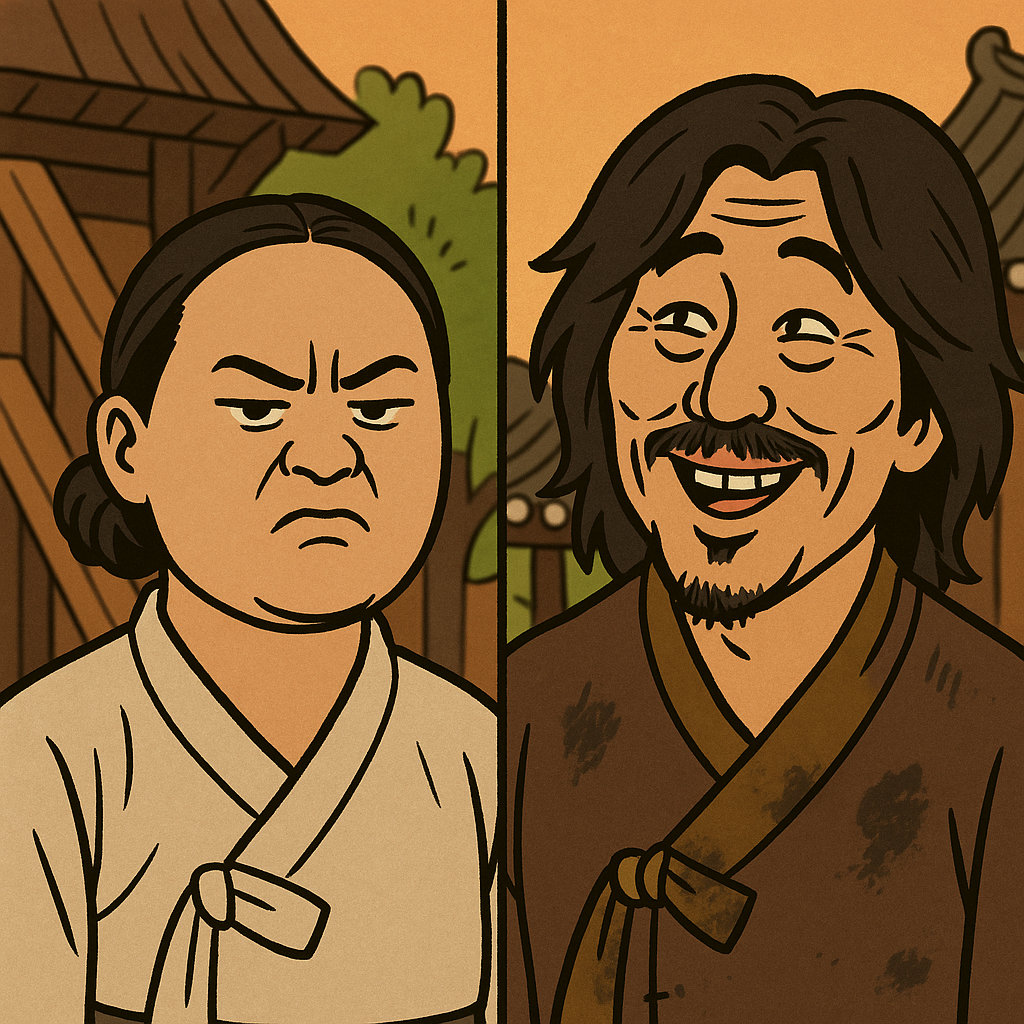
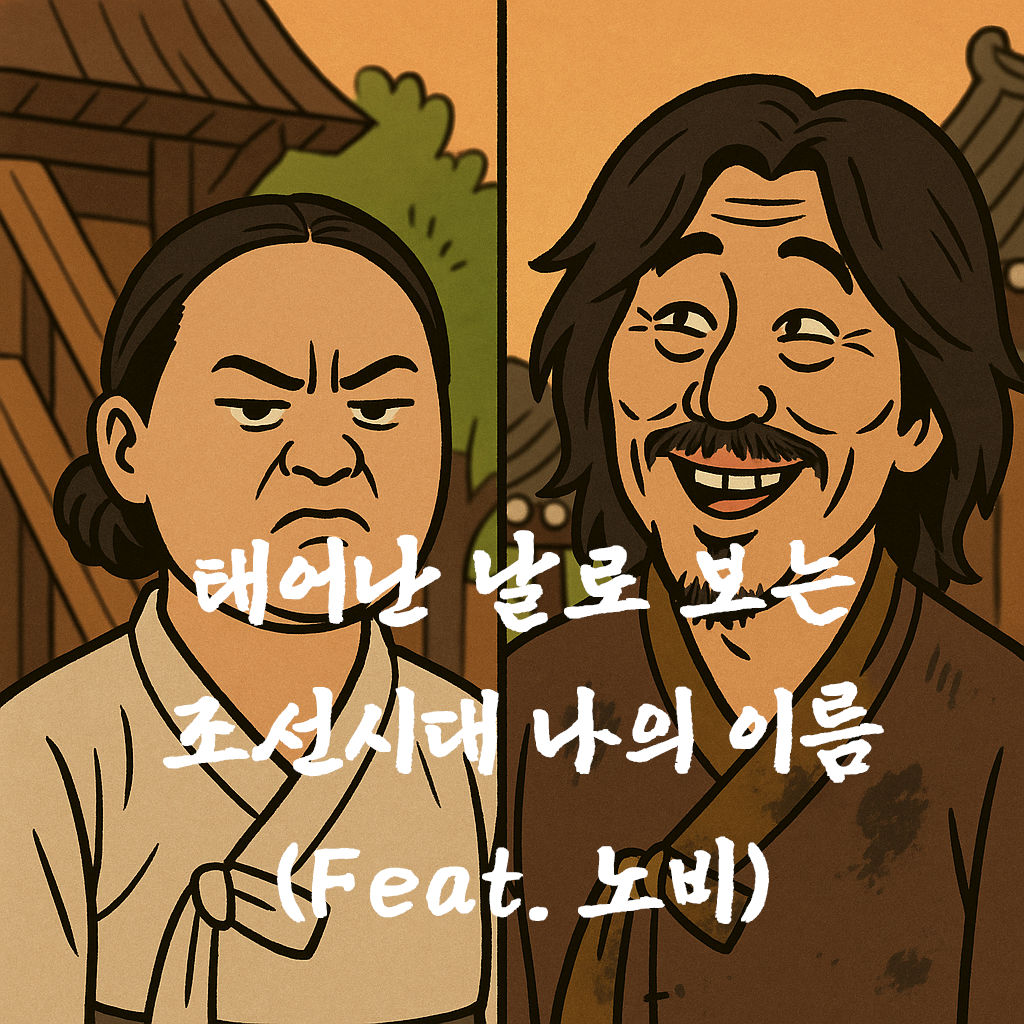
수정완료

diff --git a/index.html b/index.html
@@ -100,6 +100,10 @@
                     <hr>
                     <div class="nav-item-container">
                         <div class="nav-item">
+                            <h4><a href="/test/slave/">조선시대 나의 이름(Feat. 노비)</a></h4>
+                            <a href="/test/slave/"><img src="/images/slave1.png" alt="slave Image"></a> 
+                        </div>                           
+                        <div class="nav-item">
                             <h4><a href="/test/hsp/">나의 예민함 정도 테스트</a></h4>
                             <a href="/test/hsp/"><img src="/images/hsp1.png" alt="hsp Image"></a> 
                         </div>                           

diff --git a/test/index.html b/test/index.html
@@ -44,6 +44,10 @@
     <hr>
     <div class="nav-item-container">
         <div class="nav-item">
+            <h4><a href="/test/slave/">조선시대 나의 이름(Feat. 노비)</a></h4>
+            <a href="/test/slave/"><img src="/images/slave1.png" alt="slave Image"></a> 
+        </div>          
+        <div class="nav-item">
             <h4><a href="/test/hsp/">나의 예민함 정도 테스트</a></h4>
             <a href="/test/hsp/"><img src="/images/hsp1.png" alt="hsp Image"></a> 
         </div>          
